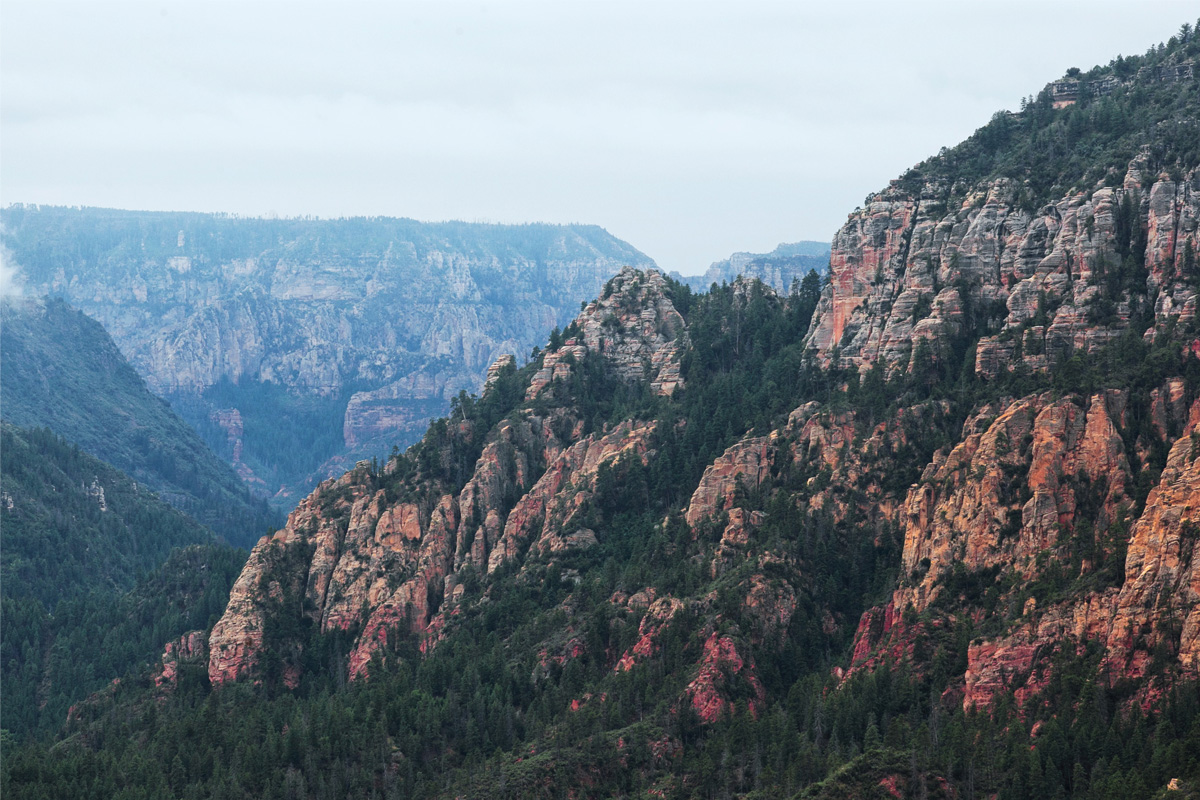
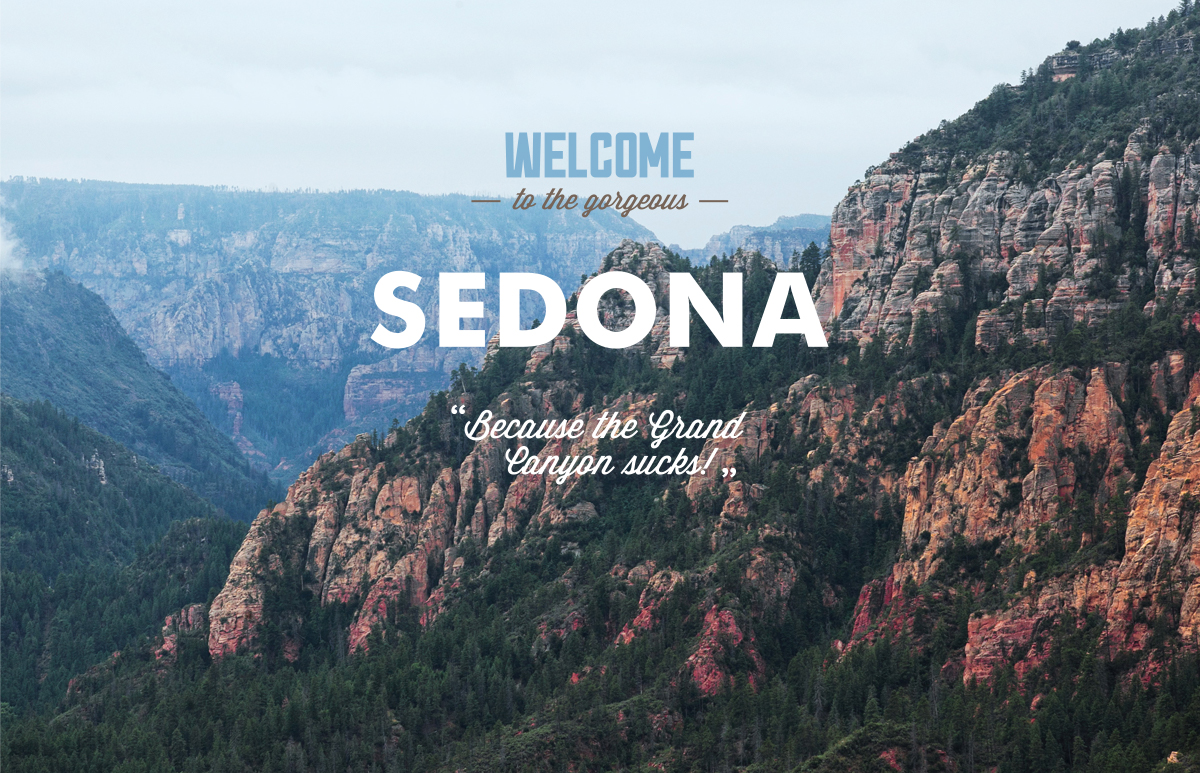
Подправил замечания

diff --git a/css/style.css b/css/style.css
@@ -45,22 +45,21 @@ a {
   color: #766357;
 }
 
-/* Это пока сложный для меня кусок который не получается совсем. Картинка больше. Белая маска почему-то на пиксель-два отодвинута от низа. И т.д. */
 .background-logo {
   width: 1200px;
-  height: 773px;
-  background-image: url("../img/polygon.svg"), url("../img/welcome.svg"), url("../img/background-photo.jpg");
-  background-size: 1200px 59px, 459px 353px, 1200px 773px;
-  background-position: center bottom, center center, top center;
+  height: 510px;
+  background-image: url("../img/polygon.svg"), url("../img/background-photo.jpg");
+  background-size: 1200px 59px, cover;
+  background-position: center bottom, center -55px; /* Сдвиг бэкграунда подбирал на глаз */
   background-repeat: no-repeat;
 }
 
-.block-1 h2 {
+.welcome h2 {
   font-size: 21px;
   line-height: 26px;	
 }
 
-.block-1 p {
+.welcome p {
   font-size: 14px;
   line-height: 26px;
   font-weight: 400;
@@ -96,12 +95,12 @@ a {
   background-color: #eeeeee;
 }
 
-.block-2 h2 {
+.interested h2 {
   font-size: 30px;
   line-height: 36px;	
 }
 
-.block-2 p {
+.interested p {
   font-size: 14px;
   line-height: 24px;
   font-weight: 400;
@@ -138,7 +137,7 @@ a {
 .button-find:focus,
 .social-button:hover,
 .social-button:focus {
- background-color: #669ec0;
+  background-color: #669ec0;
 }
 
 .button-find:active,
@@ -203,19 +202,16 @@ a {
 
 .hotel-type:hover,
 .hotel-type:focus {
- color: #81b3d2;
+  color: #81b3d2;
 }
 
 .hotel-type:active {
- color: rgba(0, 0, 0, 0.3);
+  color: rgba(0, 0, 0, 0.3);
 }
 
-/* Такой же непонятный кусок как и с первым бэкграундом ( */
 .main-filter {
-  width: 1200px;
-  height: 800px;
   background-image: url("../img/filter-background.jpg");
-  background-size: 1200px 800px;
-  background-position: top center;
+  background-size: cover;
+  background-position: center;
   background-repeat: no-repeat;
 }

diff --git a/index.html b/index.html
@@ -34,7 +34,7 @@
     <main class="container">
       <div class="background-logo"></div>
       <h1 class="visually-hidden">Седона - небольшой городок в Аризоне</h1>
-      <div class="block-1">
+      <div class="welcome">
         <h2>Седона - небольшой городок в Аризоне,
       	    заслуживающий большего!
         </h2>
@@ -42,7 +42,7 @@
       </div>
 
       <section class="features">
-        <h2 class="visually-hidden">Преимущества</h1>
+        <h2 class="visually-hidden">Преимущества</h2>
         <ul class="features-list">
           <li class="feature-item">
             <section class="feature-item-main">
@@ -108,7 +108,7 @@
         </ul>
       </section>
 
-      <div class="block-2">
+      <div class="interested">
         <h2>Заинтересовались?</h2>
         <p>Укажите предполагаемые даты поездки
       	   и мы покажем вам лучшие предложения гостиниц в Седоне
